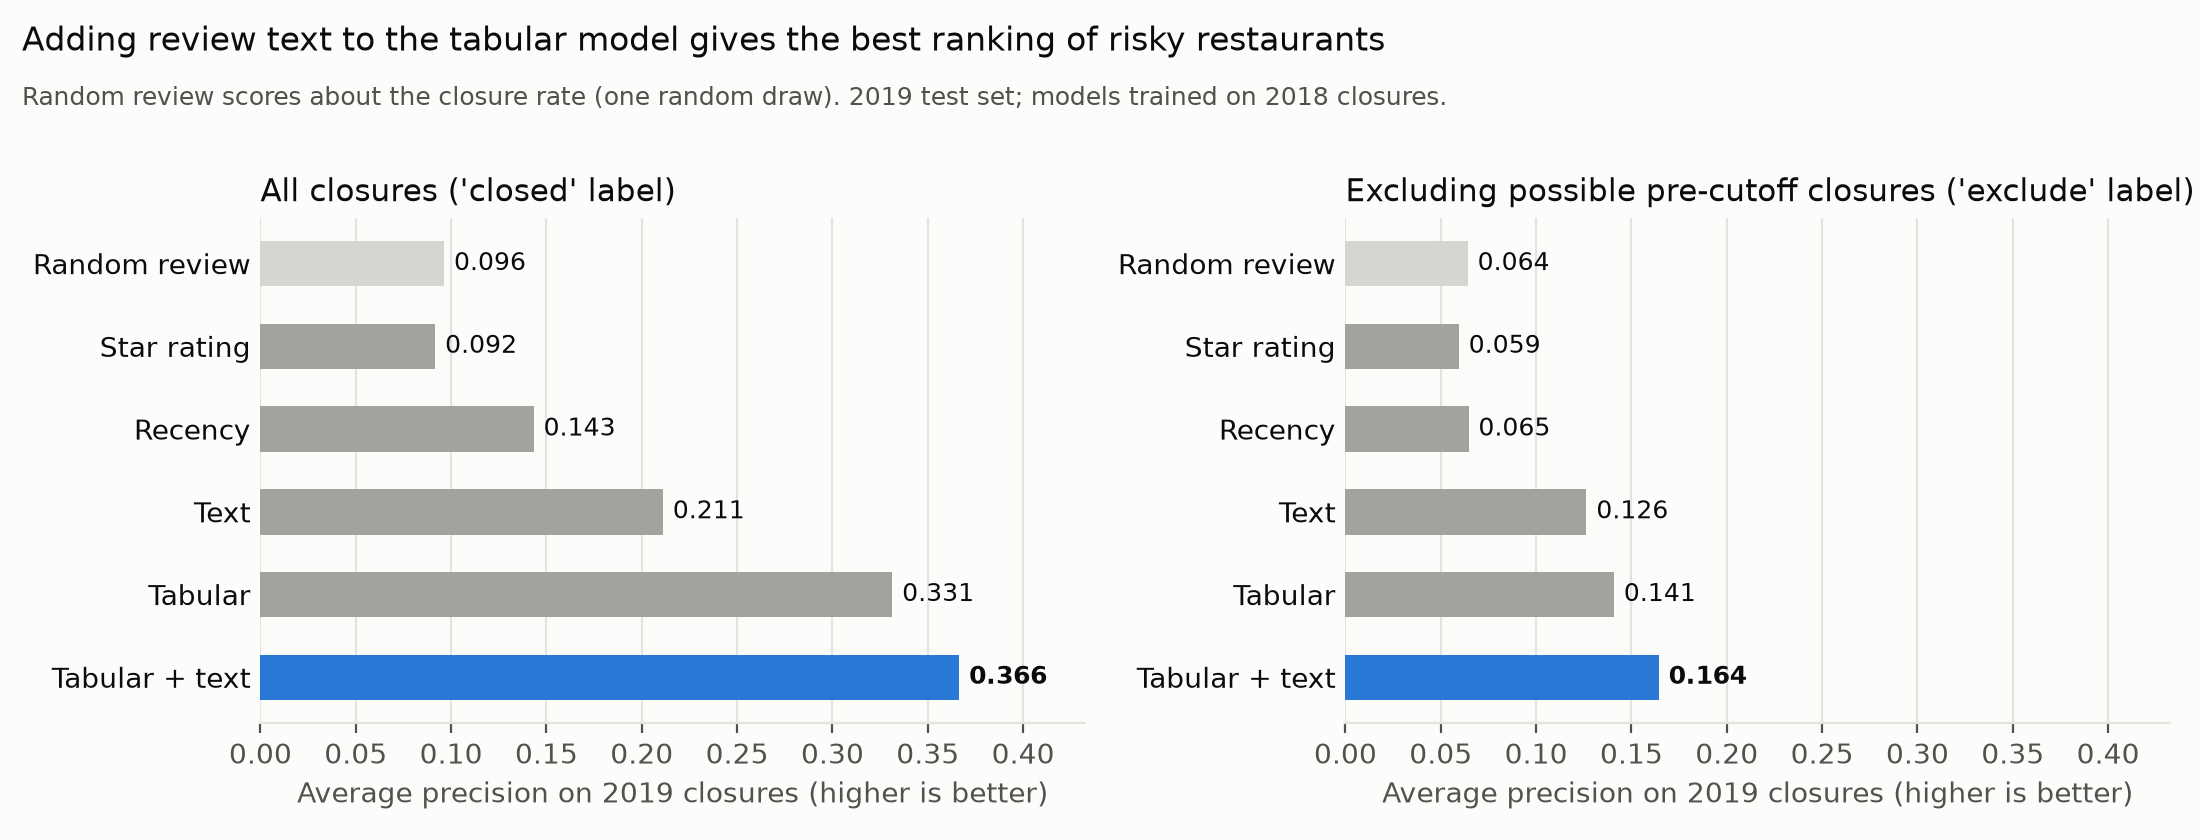
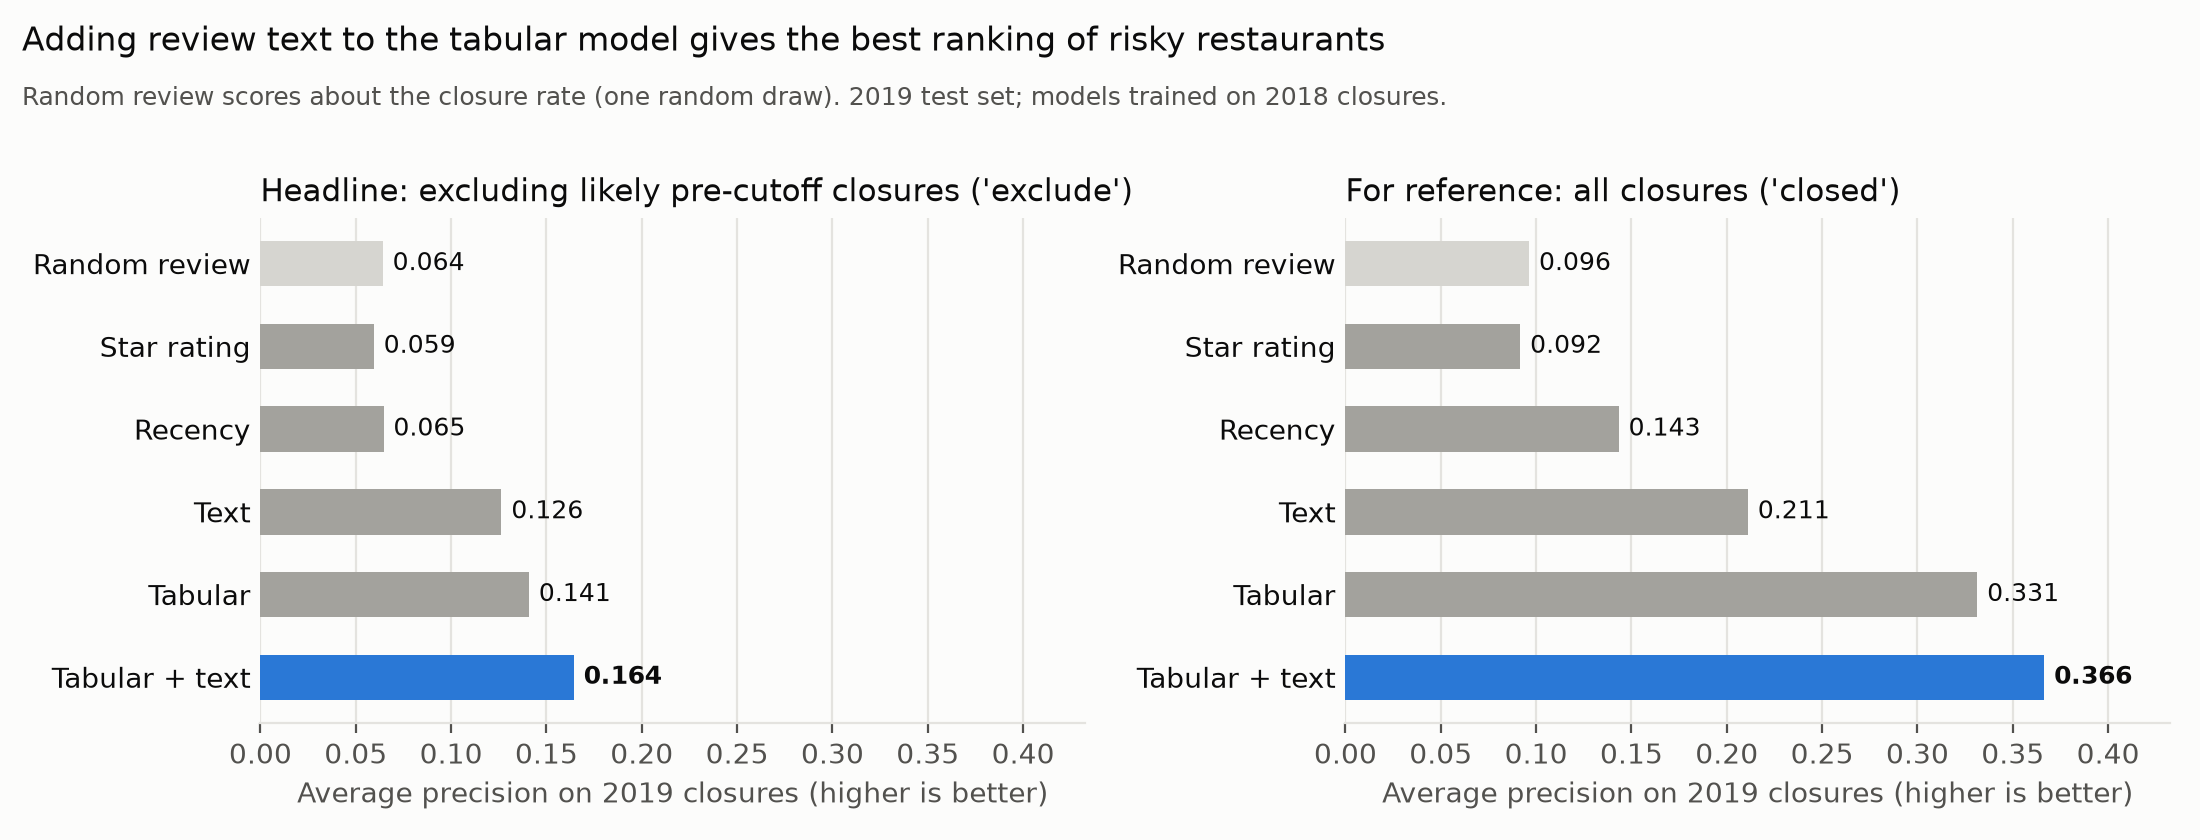
Make "exclude" the headline label (group-chat notes)
README states "exclude" as the headline label: "closed" includes
restaurants that had likely already closed before the cutoff. config.py
and labels.py comments no longer call "exclude" a sensitivity check; the
default stays "closed" because Dian's notebook builds "exclude" from the
default split. model_comparison.png shows the "exclude" panel first.
All CSVs in results/ are unchanged.

diff --git a/src/combined.py b/src/combined.py
@@ -154,11 +154,12 @@ def plot_comparison(table, path):
 
     surface, ink, muted, grid = "#fcfcfb", "#0b0b0b", "#52514e", "#e4e3df"
     accent, base, faint = "#2a78d6", "#a3a29d", "#d6d5d0"
-    titles = {"closed": "All closures ('closed' label)",
-              "exclude": "Excluding possible pre-cutoff closures ('exclude' label)"}
+    # Headline label ("exclude") first; see README.
+    titles = {"exclude": "Headline: excluding likely pre-cutoff closures ('exclude')",
+              "closed": "For reference: all closures ('closed')"}
     top = table["avg_precision"].max() * 1.18
     fig, axes = plt.subplots(1, 2, figsize=(11, 4.2), sharex=True, facecolor=surface)
-    for ax, label in zip(axes, LABELS):
+    for ax, label in zip(axes, titles):
         sub = table[table["label"] == label].set_index("model").loc[MODEL_ORDER]
         colors = [accent if m == "Tabular + text" else faint if m == "Random review" else base
                   for m in sub.index]

diff --git a/src/config.py b/src/config.py
@@ -43,8 +43,12 @@ HORIZON_MONTHS = 12
 # labels into training. With a 12-month horizon this is 2017-12-31.
 TRAIN_CUTOFF = CUTOFF - pd.DateOffset(months=HORIZON_MONTHS)
 
-# Flagged-closed restaurants whose last review is on or before the cutoff:
-# "closed" labels them 1 (default); "exclude" drops them (sensitivity check).
+# Flagged-closed restaurants whose last review is on or before the cutoff (they
+# may already have closed): "closed" labels them 1; "exclude" drops them.
+# "exclude" is the HEADLINE label (README): "closed" includes restaurants that had
+# likely already closed before the cutoff. Every reported result is computed for
+# both labels, passing pre_cutoff_closures explicitly. The default stays "closed"
+# because notebooks/dian_tabular_model.ipynb builds "exclude" from the default split.
 PRE_CUTOFF_CLOSURES = "closed"
 
 # ---- Reproducibility -----------------------------------------------------

diff --git a/src/labels.py b/src/labels.py
@@ -23,8 +23,9 @@ Label rules, for a cutoff date and the settings in src/config.py:
   cutoff. It may already have closed by the cutoff. PRE_CUTOFF_CLOSURES decides
   what happens to them:
     "closed"  (default) label them 1, consistent with the target above;
-    "exclude" drop them, as neither a clean positive nor a clean negative
-              (sensitivity check).
+    "exclude" drop them, as neither a clean positive nor a clean negative.
+              This is the headline label in the README; results are reported
+              for both.
 """
 
 import pandas as pd

diff --git a/README.md b/README.md
@@ -16,8 +16,9 @@ next 12 months from public signals: business attributes, review statistics, and 
 - **Label:** Yelp gives an open/closed flag but no closing date, so a restaurant counts as closed
   if it is flagged closed and its last review falls in 2019. Flagged-closed restaurants whose last
   review is *before* the cutoff may already have closed; the `closed` label counts them as
-  closures, the stricter `exclude` label drops them. We report both and treat `exclude` as the
-  conservative headline, since a lender's applicants are still operating.
+  closures, the stricter `exclude` label drops them.
+- **Headline label: `exclude`.** `closed` includes restaurants that had likely already closed
+  before the cutoff, which inflates its scores; `closed` results are shown alongside for reference.
 - **Split by time:** train on the 2017-12-31 snapshot (2018 closures, 28,807 restaurants), test on
   the 2018-12-31 snapshot (2019 closures, 30,080 restaurants, 9.4% closed; `exclude`: 29,041,
   6.2% closed).
